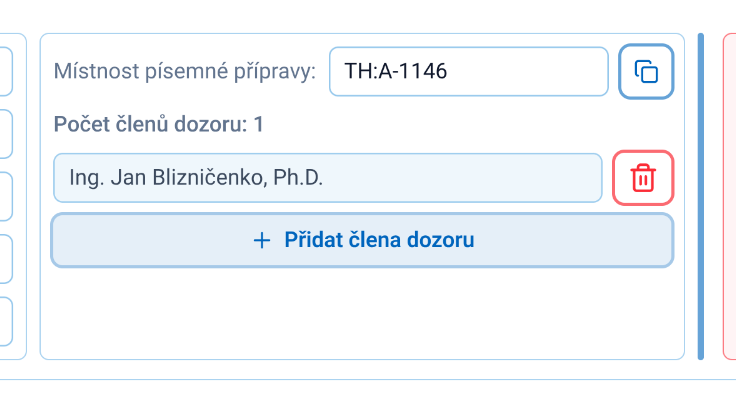
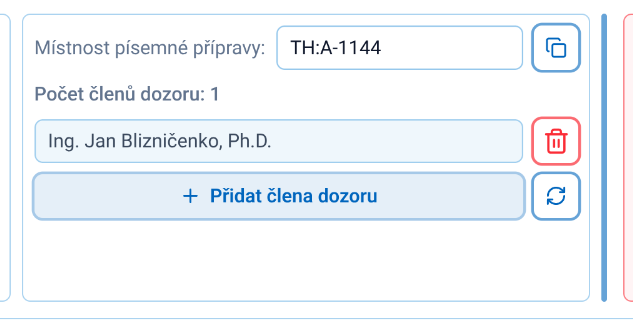
Add info about synchronization action for invigilators across committees on the same day and room to user manual

Changed region(s): [[0.0, 0.0305, 1.0, 0.9451]]

diff --git a/content/user-manual/07.prace-s-komisemi.md b/content/user-manual/07.prace-s-komisemi.md
@@ -39,6 +39,11 @@ Pokud má být místnost písemné přípravy ve všech komisích shodná, lze j
 **„Sjednotit místnost přípravy ve všech komisích“** automaticky propsat do všech ostatních komisí. Případné výjimky je
 následně možné upravit samostatně.
 
+Pro hromadnou práci s dozorem je dále dostupná akce **„Synchronizovat dozor napříč dnem a místností“**. Tato akce otevře
+dialog, ve kterém lze vybrat cílové komise ve stejný den a se stejnou místností písemné přípravy jako u aktuálně
+vybrané komise. Dialog zároveň zobrazuje přehled změn (aktuální a nové složení dozoru) pro každou cílovou komisi. Po potvrzení se do
+vybraných komisí propíše stejné složení dozoru jako ve zdrojové komisi.
+
 ![Karta „Dozor u písemné přípravy“ s polem místnosti, seznamem členů dozoru a tlačítkem pro sjednocení místnosti mezi komisemi](/user-manual/editor_invigilator.png)
 
 ### 7.4 Přejmenování a odstranění komise
